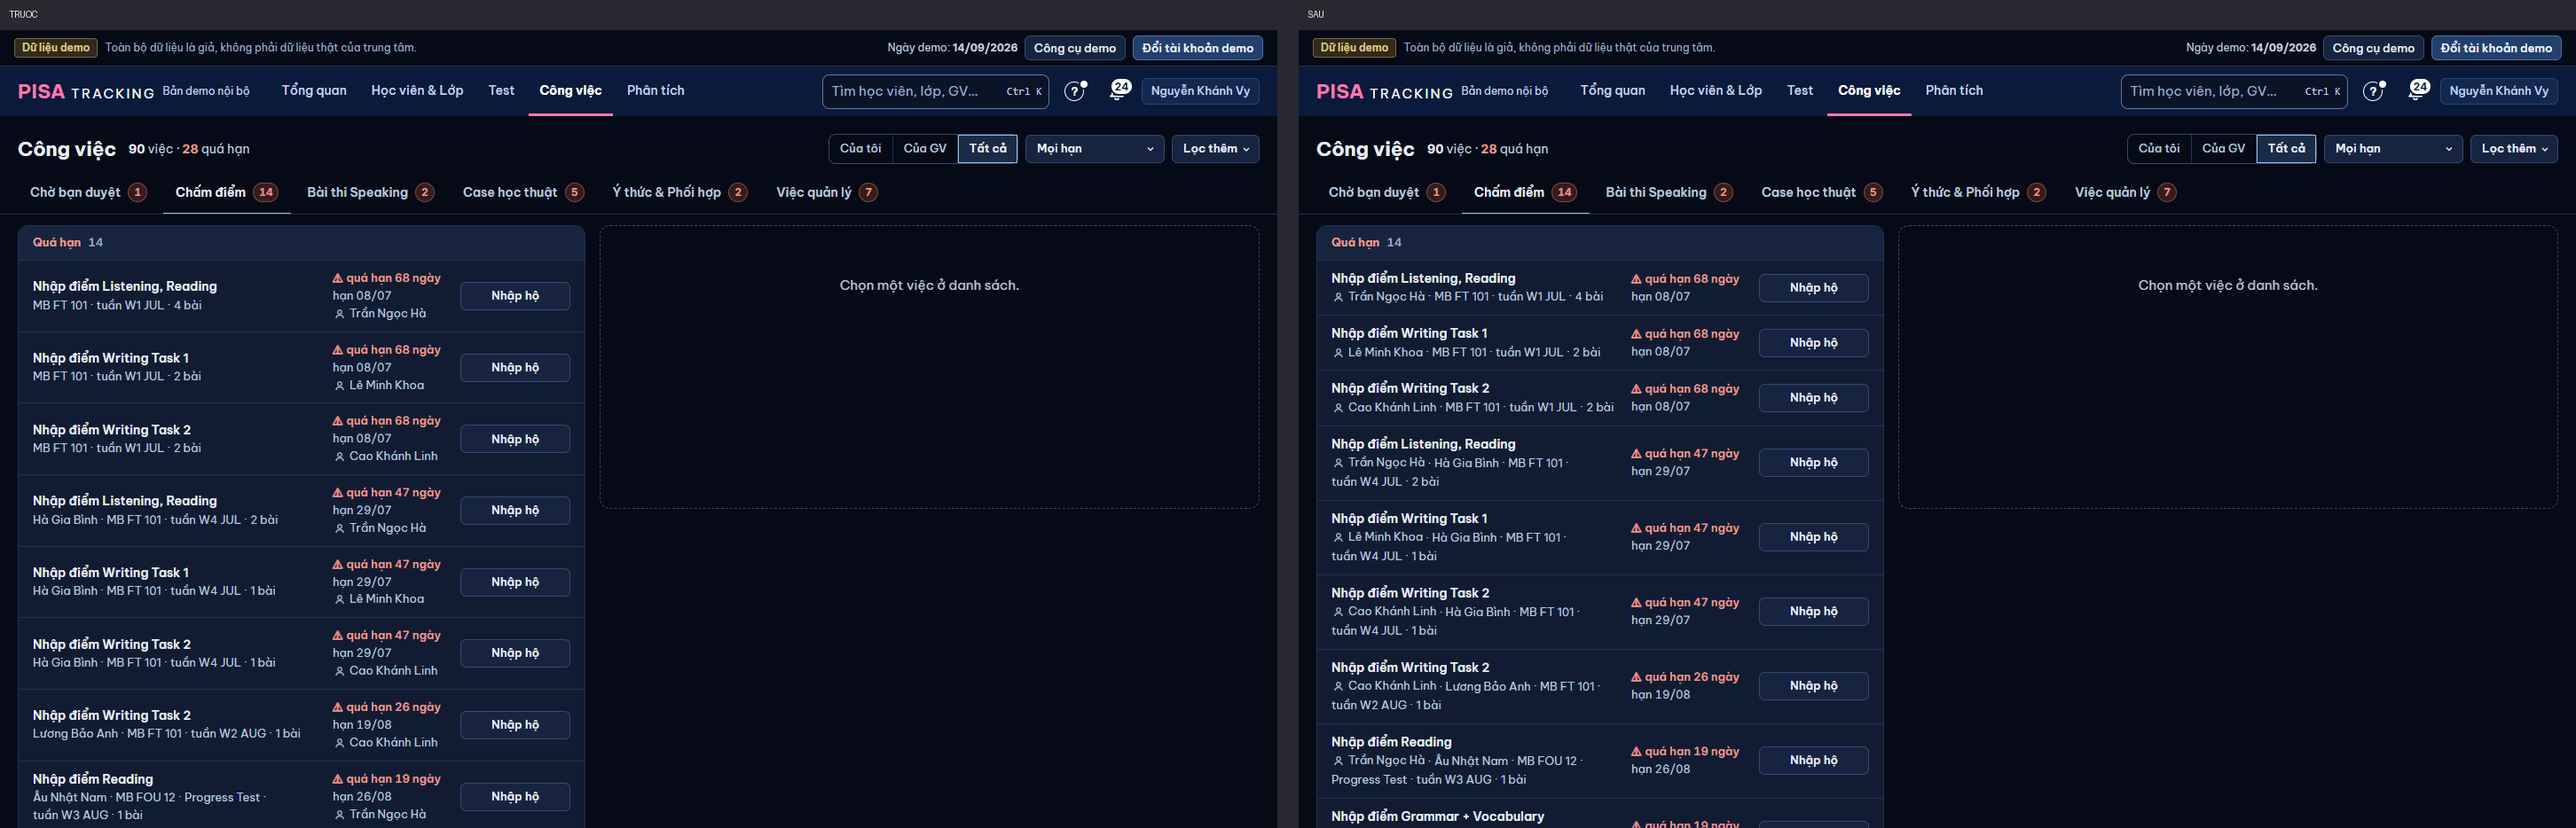
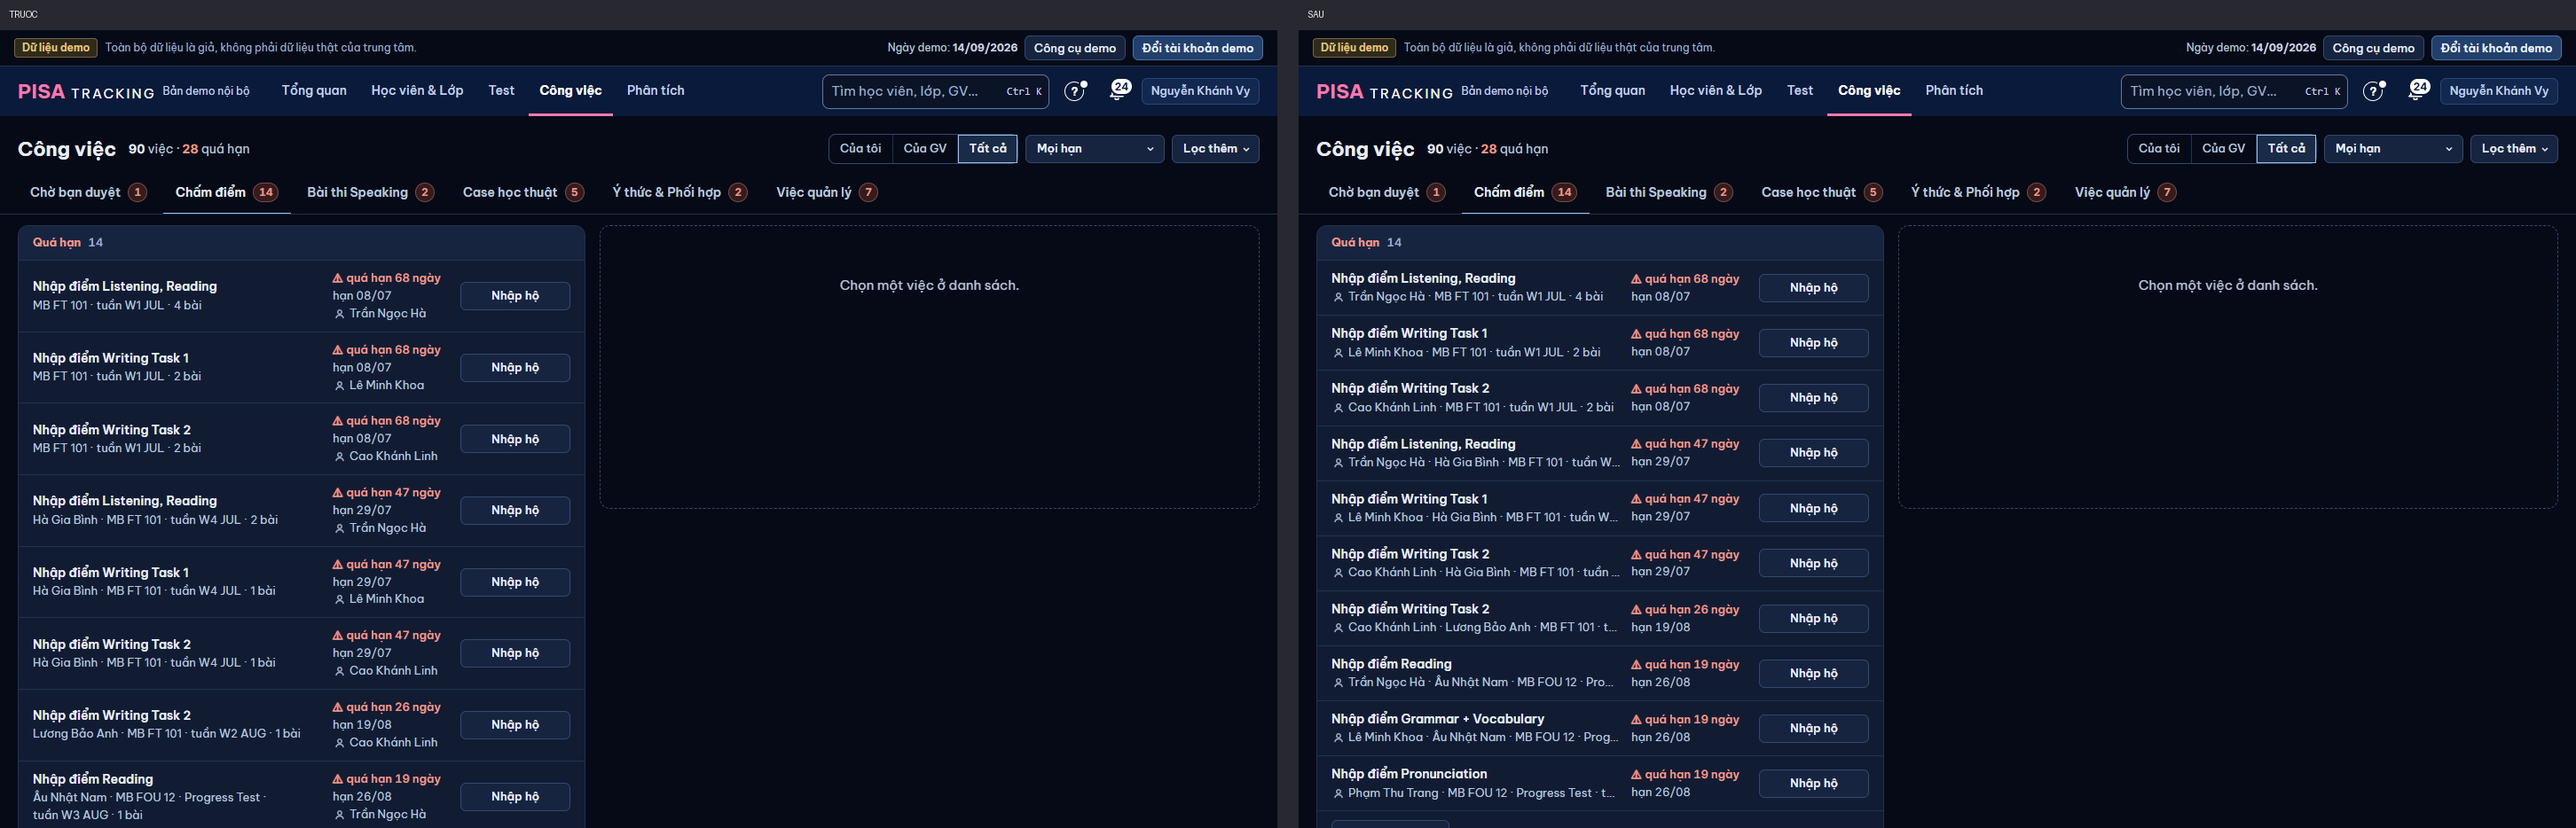
CV-HANG-DEU: chỉ huy hiệu TVV thật giữ xuống dòng (Children.toArray) — mọi hàng 1440 đúng 2 dòng; ảnh sau chụp lại; phép kiểm

Changed region(s): [[0.4959, 0.5278, 0.7128, 0.9936], [0.6198, 0.9936, 0.6818, 1.0]]

diff --git a/web/src/modules/congViec/DanhSachViec.tsx b/web/src/modules/congViec/DanhSachViec.tsx
@@ -1,4 +1,4 @@
-import { type ReactNode, useState } from 'react';
+import { Children, type ReactNode, useState } from 'react';
 import { Link } from 'react-router-dom';
 import { ChipSos } from '../../ui/ChipSos.tsx';
 import { Level } from '../../ui/ui.tsx';
@@ -317,13 +317,16 @@ function MuiTenMoTrang({ it, dong, nut }: { it: WorkItem; dong: ChungDong; nut: 
  *  ≥ 640 (CV-HANG-DEU, PTA 07/11 — ngoại lệ có chủ ý): MỘT dòng, cắt "…" ở CUỐI để mọi hàng 2 dòng (mockup v17 a2); thứ tự quan trọng trước
  *  (👤 người giữ · em · lớp · tuần · n bài), rê chuột thấy đủ chữ (`title` lấy chữ của dòng). Dòng có huy hiệu TVV (`children`) giữ xuống dòng — huy hiệu không bị cắt.
  *  RA-GD-0711: "·" dính CUỐI mẩu trước — xuống dòng không mở đầu dòng bằng "· tuần W1 SEP". */
-const DongPhu = ({ ds, children }: { ds: readonly ReactNode[]; children?: ReactNode }) => (ds.length || children ? (
+const DongPhu = ({ ds, children }: { ds: readonly ReactNode[]; children?: ReactNode }) => {
+  const coHuy = Children.toArray(children).length > 0;   // `{tvv && …}` = false khi không phải TVV — không tính
+  return ds.length || coHuy ? (
   <span onMouseEnter={(e) => { e.currentTarget.title = e.currentTarget.textContent ?? ''; }}
-    className={`flex min-w-0 flex-wrap items-center gap-x-1 gap-y-0.5 text-[13px] leading-snug text-dim ${children ? '' : 'sm:block sm:truncate'}`}>
-    {ds.map((x, i) => <span key={i} className={`whitespace-nowrap ${children ? '' : 'sm:mr-1 sm:last:mr-0 sm:[&>.inline-flex]:align-top'}`}>{x}{i < ds.length - 1 && <span aria-hidden> ·</span>}</span>)}
+    className={`flex min-w-0 flex-wrap items-center gap-x-1 gap-y-0.5 text-[13px] leading-snug text-dim ${coHuy ? '' : 'sm:block sm:truncate'}`}>
+    {ds.map((x, i) => <span key={i} className={`whitespace-nowrap ${coHuy ? '' : 'sm:mr-1 sm:last:mr-0 sm:[&>.inline-flex]:align-top'}`}>{x}{i < ds.length - 1 && <span aria-hidden> ·</span>}</span>)}
     {children}
   </span>
-) : null);
+) : null;
+};
 const TEN = 'min-w-0 scroll-mt-14 appearance-none border-0 bg-transparent p-0 text-left text-sm font-semibold leading-snug disabled:cursor-default';
 
 /**

diff --git a/server/src/tests/prUiCongViec.tests.ts b/server/src/tests/prUiCongViec.tests.ts
@@ -8,6 +8,7 @@ import type { YThucTestKit } from './yThuc.tests.ts';
 export async function runPrUiCongViecTests(t: YThucTestKit) {
   const { check, assert } = t;
   const d: any = await import('../../../shared/domain/index.ts');
+  const fs = await import('node:fs');
   console.log('\nV5 · UI-CONG-VIEC — dòng theo em, vạch hạn');
   const v = (key: string, studentId: number | null, con?: any[]) => ({ key, studentId, studentName: studentId ? `Em ${studentId}` : 'Lớp A', classCode: 'A', con });
 
@@ -37,5 +38,11 @@ export async function runPrUiCongViecTests(t: YThucTestKit) {
     const ds = [{ urgency: 'overdue', due: '2026-09-09' }, { urgency: 'normal', due: '2026-09-20' }, { urgency: 'normal', due: '2026-09-23' }];
     const r = d.chiaVachHan(ds, '2026-09-14');
     assert(r.quaHan.length === 1 && r.denHetTuan.length === 1 && r.sau.length === 1 && r.cuoiTuan === '2026-09-20', JSON.stringify(r));
+  });
+  check('CV-HANG-DEU (PTA 07/11) · dòng phụ ≥ 640 một dòng cắt "…" (người giữ đầu dòng); chỉ dòng có huy hiệu TVV THẬT giữ xuống dòng — `{tvv && …}` = false không tính', () => {
+    const s = fs.readFileSync('web/src/modules/congViec/DanhSachViec.tsx', 'utf8');
+    const dp = s.slice(s.indexOf('const DongPhu'), s.indexOf('const TEN ='));
+    assert(/Children\.toArray\(children\)\.length > 0/.test(dp) && /coHuy \? '' : 'sm:block sm:truncate'/.test(dp) && !/\$\{children \?/.test(dp), 'DongPhu: điều kiện cắt sai');
+    assert(!/NguoiGiu/.test(s.slice(s.indexOf('function CotHan'), s.indexOf('export function NguoiGiu'))), 'CotHan còn người giữ việc (cột hạn phải 2 dòng)');
   });
 }
